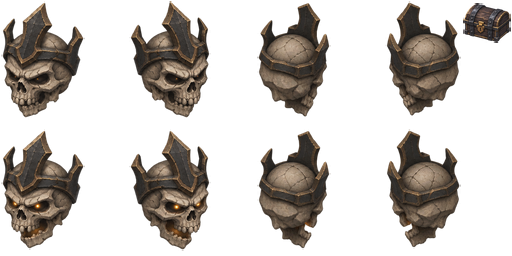
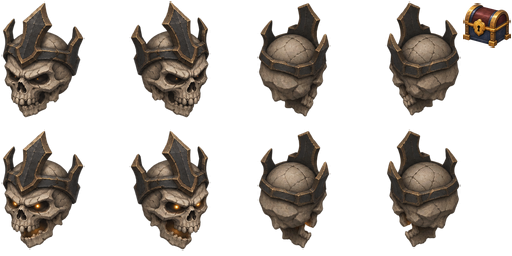
Polish elite chests with approved gold artwork and reward light

Changed region(s): [[0.9062, 0.0, 1.0, 0.1875]]

diff --git a/scripts/PackEliteLootChest.py b/scripts/PackEliteLootChest.py
@@ -1,5 +1,5 @@
 #!/usr/bin/env python3
-"""Pack the original elite chest into unused resident Grave King atlas space.
+"""Pack the approved brighter elite chest into resident Grave King atlas space.
 
 No existing frame moves. The one-pixel extrusion occupies only verified empty
 space inside a two-pixel reservation. Run after the existing gameplay art stages.
@@ -14,11 +14,13 @@ from PIL import Image
 
 ROOT = Path(__file__).resolve().parent.parent
 ART = ROOT / "assets/art"
-SOURCE = ROOT / "art-source/elite-loot-chest"
+SOURCE = ROOT / "art-source/elite-loot-chest/v2"
 PAGE = "gameplay-grave-king.png"
 REGION = "elite-chest"
 X, Y, WIDTH = 464, 4, 46
 GUTTER = 2
+WORLD_HEIGHT = 52
+GROUND_PIVOT_Y = 35
 
 
 def sha(data):
@@ -59,6 +61,12 @@ def pack():
     sprite = crop.resize((WIDTH, height), Image.Resampling.LANCZOS)
     patch = (X - 1, Y - 1, X + WIDTH + 1, Y + height + 1)
     reservation = (X - GUTTER, Y - GUTTER, X + WIDTH + GUTTER, Y + height + GUTTER)
+    old_patch = patch
+    if old_index is not None:
+        old_x, old_y, old_w, old_h = metadata["frames"][old_index]["rect"]
+        old_patch = (old_x - 1, old_y - 1, old_x + old_w + 1, old_y + old_h + 1)
+    union_patch = (min(patch[0], old_patch[0]), min(patch[1], old_patch[1]),
+                   max(patch[2], old_patch[2]), max(patch[3], old_patch[3]))
     assert reservation[2] <= before.width and reservation[3] <= before.height
     checked_frames = 0
     for i, frame in enumerate(metadata["frames"]):
@@ -68,10 +76,15 @@ def pack():
         reserved = (max(0, x - GUTTER), max(0, y - GUTTER), min(before.width, x + w + GUTTER), min(before.height, y + h + GUTTER))
         assert not intersects(reservation, reserved), f"Chest overlaps existing frame {i}"
         checked_frames += 1
-    if old_index is None:
-        assert before.crop(patch).getchannel("A").getbbox() is None, "Chest target is not empty"
+    available = before.copy()
+    if old_index is not None:
+        available.paste((0, 0, 0, 0), old_patch)
+    assert available.crop(patch).getchannel("A").getbbox() is None, "Chest target is not empty"
 
     after = before.copy()
+    # Clear the complete old sprite/gutter before a replacement, including any
+    # rows left behind by a future smaller source. Never touch adjacent art.
+    after.paste((0, 0, 0, 0), union_patch)
     for py in range(-1, height + 1):
         for px in range(-1, WIDTH + 1):
             after.putpixel((X + px, Y + py), sprite.getpixel((min(WIDTH - 1, max(0, px)), min(height - 1, max(0, py)))))
@@ -80,21 +93,21 @@ def pack():
     # the added sprite and its one-pixel sampling neighbours.
     outside_before = before.copy()
     outside_after = after.copy()
-    outside_before.paste((0, 0, 0, 0), patch)
-    outside_after.paste((0, 0, 0, 0), patch)
+    outside_before.paste((0, 0, 0, 0), union_patch)
+    outside_after.paste((0, 0, 0, 0), union_patch)
     assert outside_before.tobytes() == outside_after.tobytes()
 
-    frame = {"page": page_index, "rect": [X, Y, WIDTH, height], "source": [WIDTH, height], "offset": [0, 0], "pivot": [WIDTH / 2, 30.5]}
+    frame = {"page": page_index, "rect": [X, Y, WIDTH, height], "source": [WIDTH, height], "offset": [0, 0], "pivot": [WIDTH / 2, GROUND_PIVOT_Y]}
     if old_index is None:
         old_index = len(metadata["frames"])
         metadata["frames"].append(frame)
     else:
         metadata["frames"][old_index] = frame
-    metadata["regions"][REGION] = {"frame": old_index, "worldHeight": 44, "footprintWidth": 44, "footprintWorldX": 48, "footprintWorldY": 32}
+    metadata["regions"][REGION] = {"frame": old_index, "worldHeight": WORLD_HEIGHT, "footprintWidth": 44, "footprintWorldX": 48, "footprintWorldY": 32}
     after.save(ART / PAGE)
     sprite.save(SOURCE / "chest-runtime.png")
     metadata_path.write_text(json.dumps(metadata, indent=2) + "\n")
-    report = {"source": "generated-master.png", "sourceSha256": sha((SOURCE / "generated-master.png").read_bytes()), "alphaCropThreshold": 32, "sourceCrop": list(bounds), "page": PAGE, "pageIndex": page_index, "pageSize": list(after.size), "frame": old_index, "rect": frame["rect"], "pivot": frame["pivot"], "worldHeight": 44, "gutter": GUTTER, "edgeExtrusion": 1, "reservedRect": list(reservation), "existingPageFramesChecked": checked_frames, "supplementalPageFilesChecked": supplemental, "outsidePatchRgbaSha256": sha(outside_after.tobytes()), "outsidePatchPixels": "unchanged", "addedTextureBytes": 0, "retainedDecodedPixmapBytes": 0}
+    report = {"source": "generated-master.png", "sourceSha256": sha((SOURCE / "generated-master.png").read_bytes()), "approvedMockupSha256": sha((SOURCE / "approved-in-arena-mockup.png").read_bytes()), "alphaCropThreshold": 32, "sourceCrop": list(bounds), "page": PAGE, "pageIndex": page_index, "pageSize": list(after.size), "frame": old_index, "rect": frame["rect"], "pivot": frame["pivot"], "worldHeight": WORLD_HEIGHT, "gutter": GUTTER, "edgeExtrusion": 1, "reservedRect": list(reservation), "clearedUnionPatch": list(union_patch), "existingPageFramesChecked": checked_frames, "supplementalPageFilesChecked": supplemental, "outsidePatchRgbaSha256": sha(outside_after.tobytes()), "outsidePatchPixels": "unchanged", "addedTextureBytes": 0, "retainedDecodedPixmapBytes": 0}
     (SOURCE / "pack-report.json").write_text(json.dumps(report, indent=2) + "\n")
     print(json.dumps(report))
 

diff --git a/core/src/main/java/com/couchcrypt/game/LootChestVfx.java b/core/src/main/java/com/couchcrypt/game/LootChestVfx.java
@@ -1,0 +1,89 @@
+package com.couchcrypt.game;
+
+import com.badlogic.gdx.graphics.Color;
+import com.badlogic.gdx.graphics.g2d.SpriteBatch;
+import com.badlogic.gdx.graphics.g2d.TextureRegion;
+import com.badlogic.gdx.math.MathUtils;
+
+/** Compact reward light, using resident pixels and the shared combat clock only. */
+final class LootChestVfx {
+    private static final int SEGMENTS = 48, GLINTS = 5;
+    private static final float RADIUS = 40f;
+    private static final float[] EDGE = {-1f, -.4f, .4f, 1f};
+    private static final float[] ALPHA = {0, .22f, .22f, 0};
+    private final TextureRegion pixel, glow;
+    private final float[] rim = new float[36 * 3 * 20];
+    private final float[] vertices = new float[rim.length];
+
+    LootChestVfx(TextureRegion pixel, TextureRegion glow) {
+        this.pixel = pixel; this.glow = glow;
+        float u = (pixel.getU() + pixel.getU2()) * .5f, v = (pixel.getV() + pixel.getV2()) * .5f;
+        int at = 0;
+        for (int edge = 0; edge < EDGE.length - 1; edge++) {
+            for (int segment = 0; segment < SEGMENTS; segment++) {
+                if (segment % 12 < 3) continue; // Four small gaps keep the rim quiet and incomplete.
+                at = point(at, segment, edge, u, v);
+                at = point(at, segment, edge + 1, u, v);
+                at = point(at, segment + 1, edge + 1, u, v);
+                at = point(at, segment + 1, edge, u, v);
+            }
+        }
+        System.arraycopy(rim, 0, vertices, 0, rim.length);
+    }
+
+    private int point(int at, int segment, int edge, float u, float v) {
+        float angle = MathUtils.PI2 * segment / SEGMENTS;
+        float c = MathUtils.cos(angle), s = MathUtils.sin(angle);
+        float normal = (float) Math.sqrt(c * c + 4f * s * s);
+        rim[at++] = c * RADIUS + c / normal * EDGE[edge];
+        rim[at++] = s * RADIUS * .5f + 2f * s / normal * EDGE[edge];
+        rim[at++] = Color.toFloatBits(1f, .70f, .24f, ALPHA[edge]);
+        rim[at++] = u; rim[at++] = v;
+        return at;
+    }
+
+    /** Runs before hazards and the complete actor pass; the light stays flat on the ground. */
+    void groundLight(SpriteBatch batch, float x, float y) {
+        batch.setColor(1f, .61f, .13f, .42f);
+        batch.draw(glow, x - 51f, y - 25.5f, 102f, 51f);
+        batch.setColor(1f, .78f, .32f, .20f);
+        batch.draw(glow, x - 35f, y - 17.5f, 70f, 35f);
+        batch.setColor(Color.WHITE);
+    }
+
+    void groundRim(SpriteBatch batch, float x, float y) {
+        for (int at = 0; at < vertices.length; at += 5) {
+            vertices[at] = rim[at] + x; vertices[at + 1] = rim[at + 1] + y;
+        }
+        batch.draw(pixel.getTexture(), vertices, 0, vertices.length);
+        batch.setColor(Color.WHITE);
+    }
+
+    /** Drawn at the chest's own depth, so nearer heroes/enemies cover its short wisps. */
+    void wisps(SpriteBatch batch, float x, float y, float combatTime, int index) {
+        for (int i = 0; i < 2; i++) {
+            float phase = (combatTime / 3.8f + i * .5f + index * .17f) % 1f;
+            float sway = MathUtils.sin(phase * MathUtils.PI2) * 2f;
+            float alpha = MathUtils.sin(phase * MathUtils.PI) * .27f;
+            batch.setColor(1f, .73f, .29f, alpha);
+            batch.draw(glow, x - 8f + i * 15f + sway, y + 24f + phase * 19f, 4f, 25f);
+        }
+        batch.setColor(Color.WHITE);
+    }
+
+    void glints(SpriteBatch batch, float x, float y, float combatTime, int index) {
+        for (int i = 0; i < GLINTS; i++) {
+            float phase = (combatTime / 3.6f + i * .2f + index * .13f) % 1f;
+            float fade = MathUtils.sin(phase * MathUtils.PI);
+            float sx = x + MathUtils.sin(i * 2.4f + phase * 1.6f) * (21f + i * 2f);
+            float sy = y + 10f + phase * 48f;
+            batch.setColor(1f, .73f, .26f, fade * .25f);
+            batch.draw(glow, sx - 4f, sy - 4f, 8f, 8f);
+            batch.setColor(1f, .92f, .66f, fade * .85f);
+            float size = 1f + fade * .7f;
+            batch.draw(pixel, sx - size * .5f, sy - size * .5f, size * .5f, size * .5f,
+                size, size, 1, 1, 45f);
+        }
+        batch.setColor(Color.WHITE);
+    }
+}

diff --git a/core/src/main/java/com/couchcrypt/game/ArenaRenderer.java b/core/src/main/java/com/couchcrypt/game/ArenaRenderer.java
@@ -37,6 +37,7 @@ public final class ArenaRenderer implements Disposable {
     private final GameHud gameHud;
     private final EnemyRankMarkers rankMarkers;
     private final PlayerFootRing playerFootRing;
+    private final LootChestVfx chestVfx;
     private final DamageNumberArt damageNumberArt;
     private final ArenaAmbience ambience;
     private final SpriteBatch batch;
@@ -78,6 +79,7 @@ public final class ArenaRenderer implements Disposable {
         art = gameArt; gameHud = new GameHud(gameArt, uiArt, buildIcons, hudArt);
         rankMarkers = new EnemyRankMarkers(art.pixel);
         playerFootRing = new PlayerFootRing(art.pixel);
+        chestVfx = new LootChestVfx(art.pixel, art.glow);
         damageNumberArt = new DamageNumberArt(uiArt.body);
         floorLayout = new ArenaFloorLayout(new JsonReader().parse(Gdx.files.internal("arena/crypt-floor.json")));
         float radius = floorLayout.medallionDiameter * .5f;
@@ -134,6 +136,7 @@ public final class ArenaRenderer implements Disposable {
             batch.setProjectionMatrix(camera.combined);
             batch.begin();
             art.engravedFloor.draw(batch, medallion);
+            drawChestLights(world, camera);
             // All floor effects precede the complete depth-sorted actor pass. Their painted
             // foreground rims must never be laid over a closer enemy or the player's body.
             drawHazards(world, camera, SpriteEffectArt.Layer.ALL);
@@ -452,6 +455,24 @@ public final class ArenaRenderer implements Disposable {
             } else batch.draw(art.soul, x - 7f, y - 1f, 14f, 20f);
             batch.setColor(Color.WHITE);
         }
+    }
+
+    private void drawChestLights(ArenaWorld world, OrthographicCamera camera) {
+        boolean lit = false;
+        for (ArenaWorld.Chest chest : world.chests) {
+            if (!chest.active || !visible(camera, chest.x, chest.y, 75f)) continue;
+            if (!lit) {
+                batch.setBlendFunction(GL20.GL_SRC_ALPHA, GL20.GL_ONE);
+                lit = true;
+            }
+            chestVfx.groundLight(batch, screenX(chest.x, chest.y), screenY(chest.x, chest.y));
+        }
+        if (!lit) return;
+        // Batch all reward lights together; restore ordinary blending before warnings/actors.
+        batch.setBlendFunction(GL20.GL_SRC_ALPHA, GL20.GL_ONE_MINUS_SRC_ALPHA);
+        for (ArenaWorld.Chest chest : world.chests)
+            if (chest.active && visible(camera, chest.x, chest.y, 75f))
+                chestVfx.groundRim(batch, screenX(chest.x, chest.y), screenY(chest.x, chest.y));
     }
 
     private void drawDust(ArenaWorld world, OrthographicCamera camera) {
@@ -830,8 +851,11 @@ public final class ArenaRenderer implements Disposable {
                 drawEnvironment(world, camera, viewer, index);
             } else if (types[i] == CHEST) {
                 ArenaWorld.Chest chest = world.chests[index];
+                float x = screenX(chest.x, chest.y), y = screenY(chest.x, chest.y);
+                chestVfx.wisps(batch, x, y, world.elapsed, index);
                 batch.setColor(Color.WHITE);
                 drawFrame(chestArt.frame(), chest.x, chest.y, chestScale);
+                chestVfx.glints(batch, x, y, world.elapsed, index);
             } else if (types[i] == DODGE_GHOST) {
                 int owner = index / DodgeTrail.CAPACITY;
                 DodgeTrail.Snapshot snapshot = world.players[owner].dodgeTrail.snapshots[index % DodgeTrail.CAPACITY];

diff --git a/art-source/elite-loot-chest/v2/README.md b/art-source/elite-loot-chest/v2/README.md
@@ -1,0 +1,31 @@
+# Approved brighter elite chest
+
+The user approved `approved-in-arena-mockup.png` on 2026-11-25. Its exact
+generation prompt is retained as `approved-mockup-prompt.txt`. The existing
+chest sources in the parent directory are preserved as the original version.
+
+The built-in ImageGen tool edited the approved mockup to isolate the same chest
+as a transparent production sprite. `extraction-prompt.txt` is the exact prompt;
+`generated-master.png` is the unmodified generated RGBA result. The chest keeps
+the approved substantial warm gold bands/corners and large keyhole latch,
+mahogany lid, midnight metal body and fine glowing closed-lid seam. The ground
+pool, rim, glints and wisps are excluded from the sprite and rendered separately.
+
+`chest-runtime.png` is a 46×43 Lanczos reduction after an alpha ≥32 crop at
+(226, 235)–(1028, 985); generated alpha inside the crop is preserved. The native
+46-pixel sprite was visually inspected for silhouette, gold trim and large latch.
+Its measured ground-centre pivot (23, 35) lies at 81% of source height, above
+the forward corner. At the authored world height of 52 it draws about 55.6×52,
+18% taller than the original 44-high chest.
+
+`scripts/PackEliteLootChest.py` now defaults to this approved source. It replaces
+only frame 232 / region `elite-chest`, at (464, 4), on the already resident
+512×256 `gameplay-grave-king.png` page. The one-pixel extrusion remains inside
+a two-pixel reservation. The union of old/new sprite patches is cleared before
+packing, so changing source height cannot leave stale rows. All eight skull
+frames and their gutters remain unchanged. Supplemental attack/projectile/
+border/floor page file identities are checked before writing.
+
+`pack-report.json` records the exact source and approved-mockup hashes, placement,
+sampling reservations and outside-patch RGBA hash. Runtime texture dimensions,
+GPU texture memory and retained decoded Pixmap memory do not grow.

diff --git a/docs/combat-vfx.md b/docs/combat-vfx.md
@@ -231,3 +231,30 @@ and does not establish sustained TV frame rate or balance. Final screenshots/log
 remain ignored under `.run/ambient-preview/`. Temporary render processes and
 harness files were removed; the existing emulator, saved LAN host and relay were
 left unchanged. No full gameplay playthrough was run.
+
+
+### Elite chest reward light (2026-11-25)
+
+The approved chest revision uses warm gold hardware, a bright lid seam and a
+compact reward light. A soft amber pool and fine broken 2:1 rim draw before
+ground hazards and the complete actor pass. Two very short wisps and five small
+ivory-gold glints draw at the chest's depth, so nearer actors cover them. The
+wisps stop within one chest height above the lid; there is no tall loot beam.
+
+`LootChestVfx` borrows the existing gameplay glow and white texel. Ring geometry
+is cached at renderer creation; a fixed five glints and two wisps per active
+chest are sampled analytically from the shared combat clock, without frame-loop
+allocations or camera-local particle state. Choices, manual pause, background
+and disconnect therefore freeze their motion. Collecting/resetting the chest
+removes its light. Chest contact, landing delay, reward sources, phone choices
+and reliquary scheduling are unchanged. Sprite provenance and the selected
+mockup are preserved in `art-source/elite-loot-chest/v2/`.
+
+JDK 21 desktop compilation and Android debug assembly passed. Twelve focused
+chest/atlas checks passed. A brief native desktop fixture verified solo/co-op
+rendering and shared collection; the full world image stayed byte-identical
+while a loot-choice clock advanced, confirming that chest VFX freeze with
+combat. All old atlas pixels outside the replacement chest patch and all other
+frame metadata were preserved; the APK was checked for the updated sprite. No
+physical-TV performance or full-run balance claim is made. The existing TV
+emulator and LAN relay were not changed.

diff --git a/AGENTS.md b/AGENTS.md
@@ -46,6 +46,7 @@
 - Treat 60 FPS (16.7 ms per frame) and low memory consumption as requirements. Keep texture dimensions bounded, reuse resources, avoid per-frame allocations and layout rebuilds, and keep network I/O off the render thread. Measure briefly and report limitations honestly; emulator results do not guarantee performance on physical TVs.
 
 - Elite loot collection (2026-11-25): defeated elites leave stationary chests instead of opening equipment choices immediately. Either living player walks over a chest to earn one party reward with personal phone choices; keep five elite opportunities, source labels, skill priority, shared thirty-second rounds and three automatic timed reliquaries. Chests persist until collected/reset, use a separate fixed pool, and reuse resident atlas space. Late join catch-up includes collected rewards only; uncollected chests remain available to the current party.
+- Elite chest polish approval (2026-11-25): use the approved brighter treasure-chest mockup, with substantial worn-gold bands/corners and latch, mahogany/dark-metal body and fine glowing lid seam. Add a compact warm 2:1 ground light with a fine broken rim, short wisps and a few drifting ivory-gold glints. Keep effects local, beneath ground warnings/actors where appropriate, shared between cameras and frozen with combat. Preserve pickup mechanics and original source art; reuse existing resident pixels and the chest atlas space with no GPU texture growth.
 
 ## Working process
 

diff --git a/art-source/elite-loot-chest/README.md b/art-source/elite-loot-chest/README.md
@@ -1,5 +1,8 @@
 # Elite loot chest
 
+This original version is retained for provenance. The brighter user-approved
+replacement and current packing source are in [v2](v2/README.md).
+
 Original chest artwork generated on 2026-11-25 using the built-in ImageGen tool.
 The exact generation prompt is in `prompt.txt`; `generated-master.png` retains
 the unmodified RGBA output. The existing crypt environment atlas was inspected
